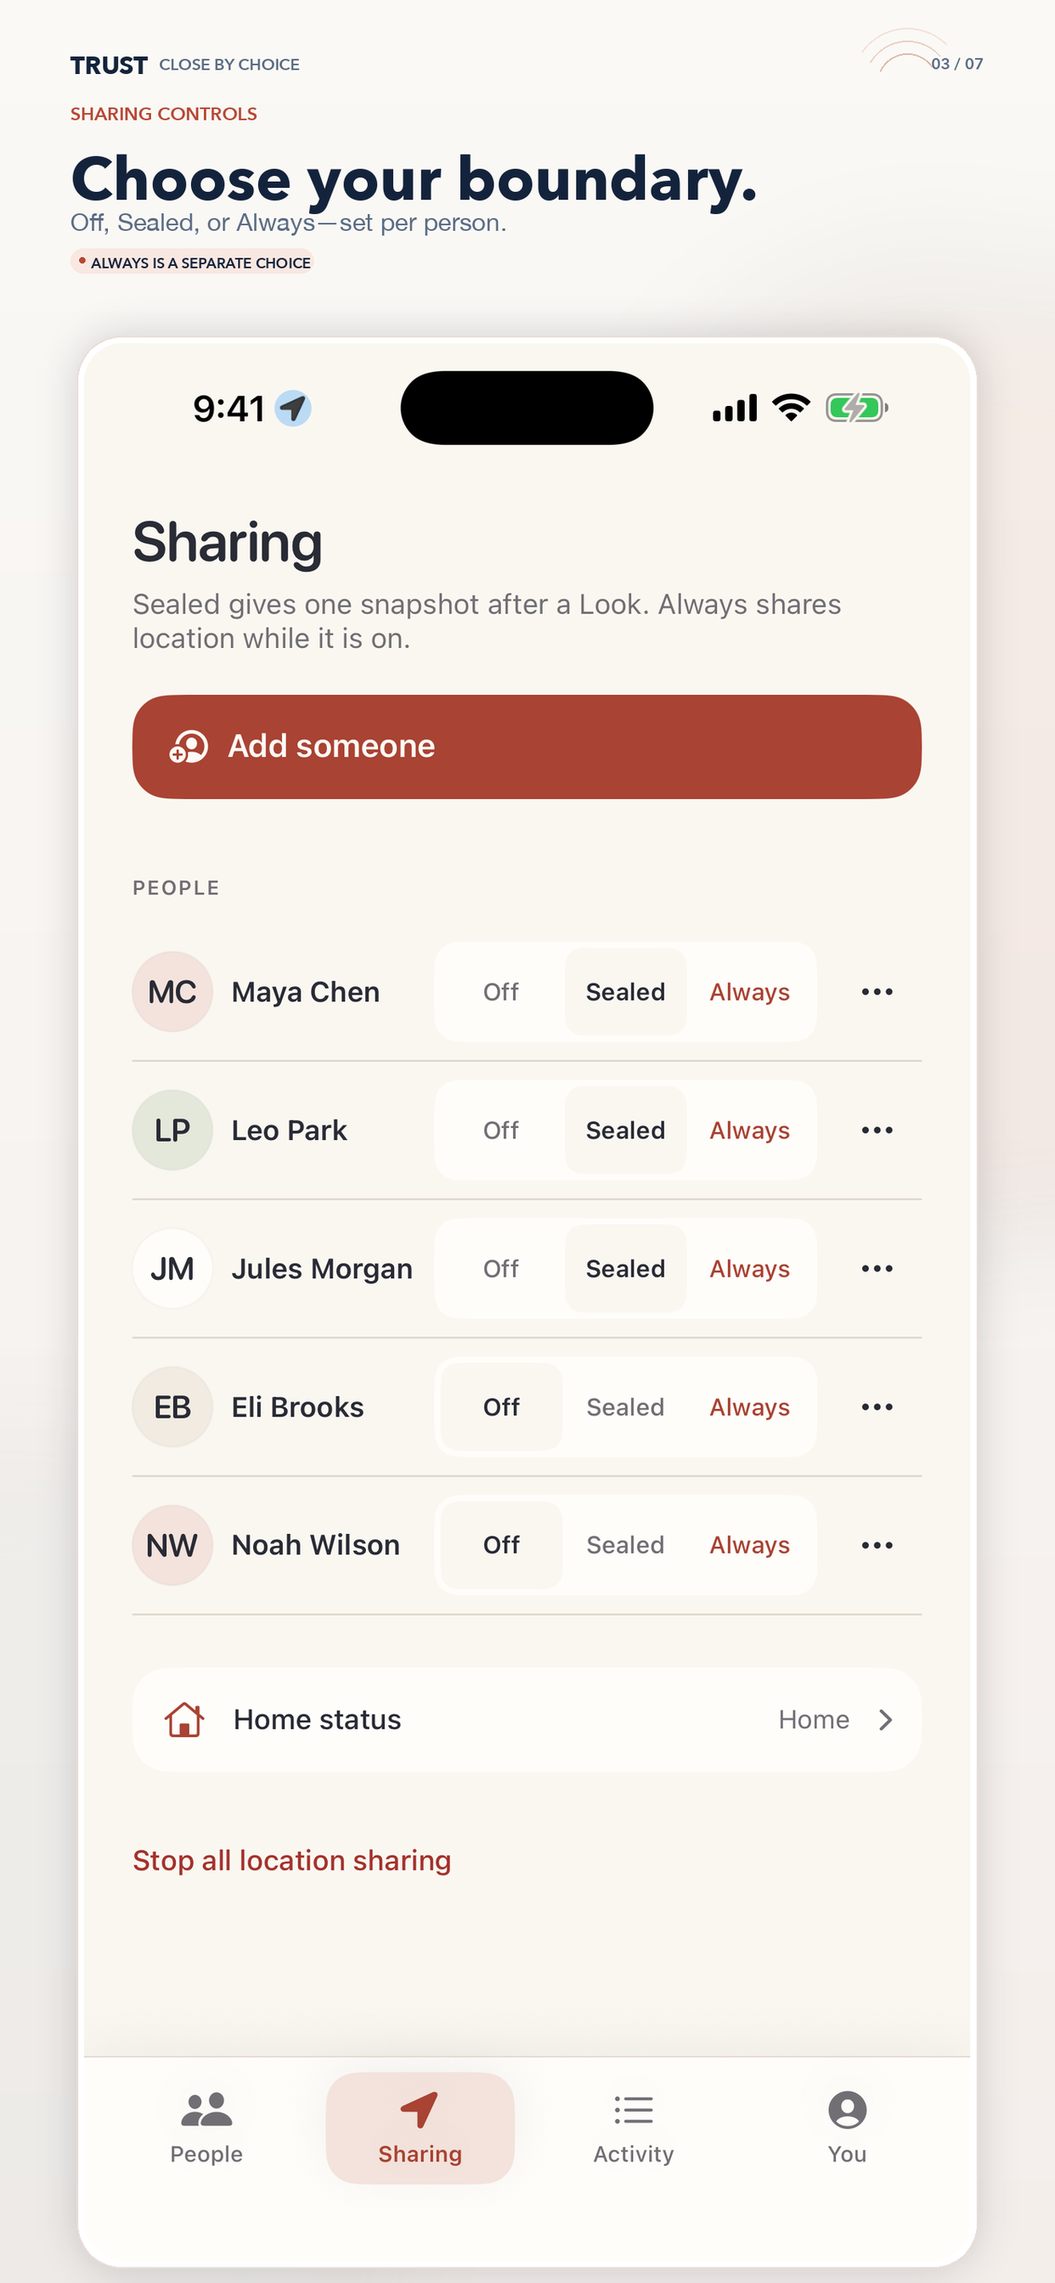
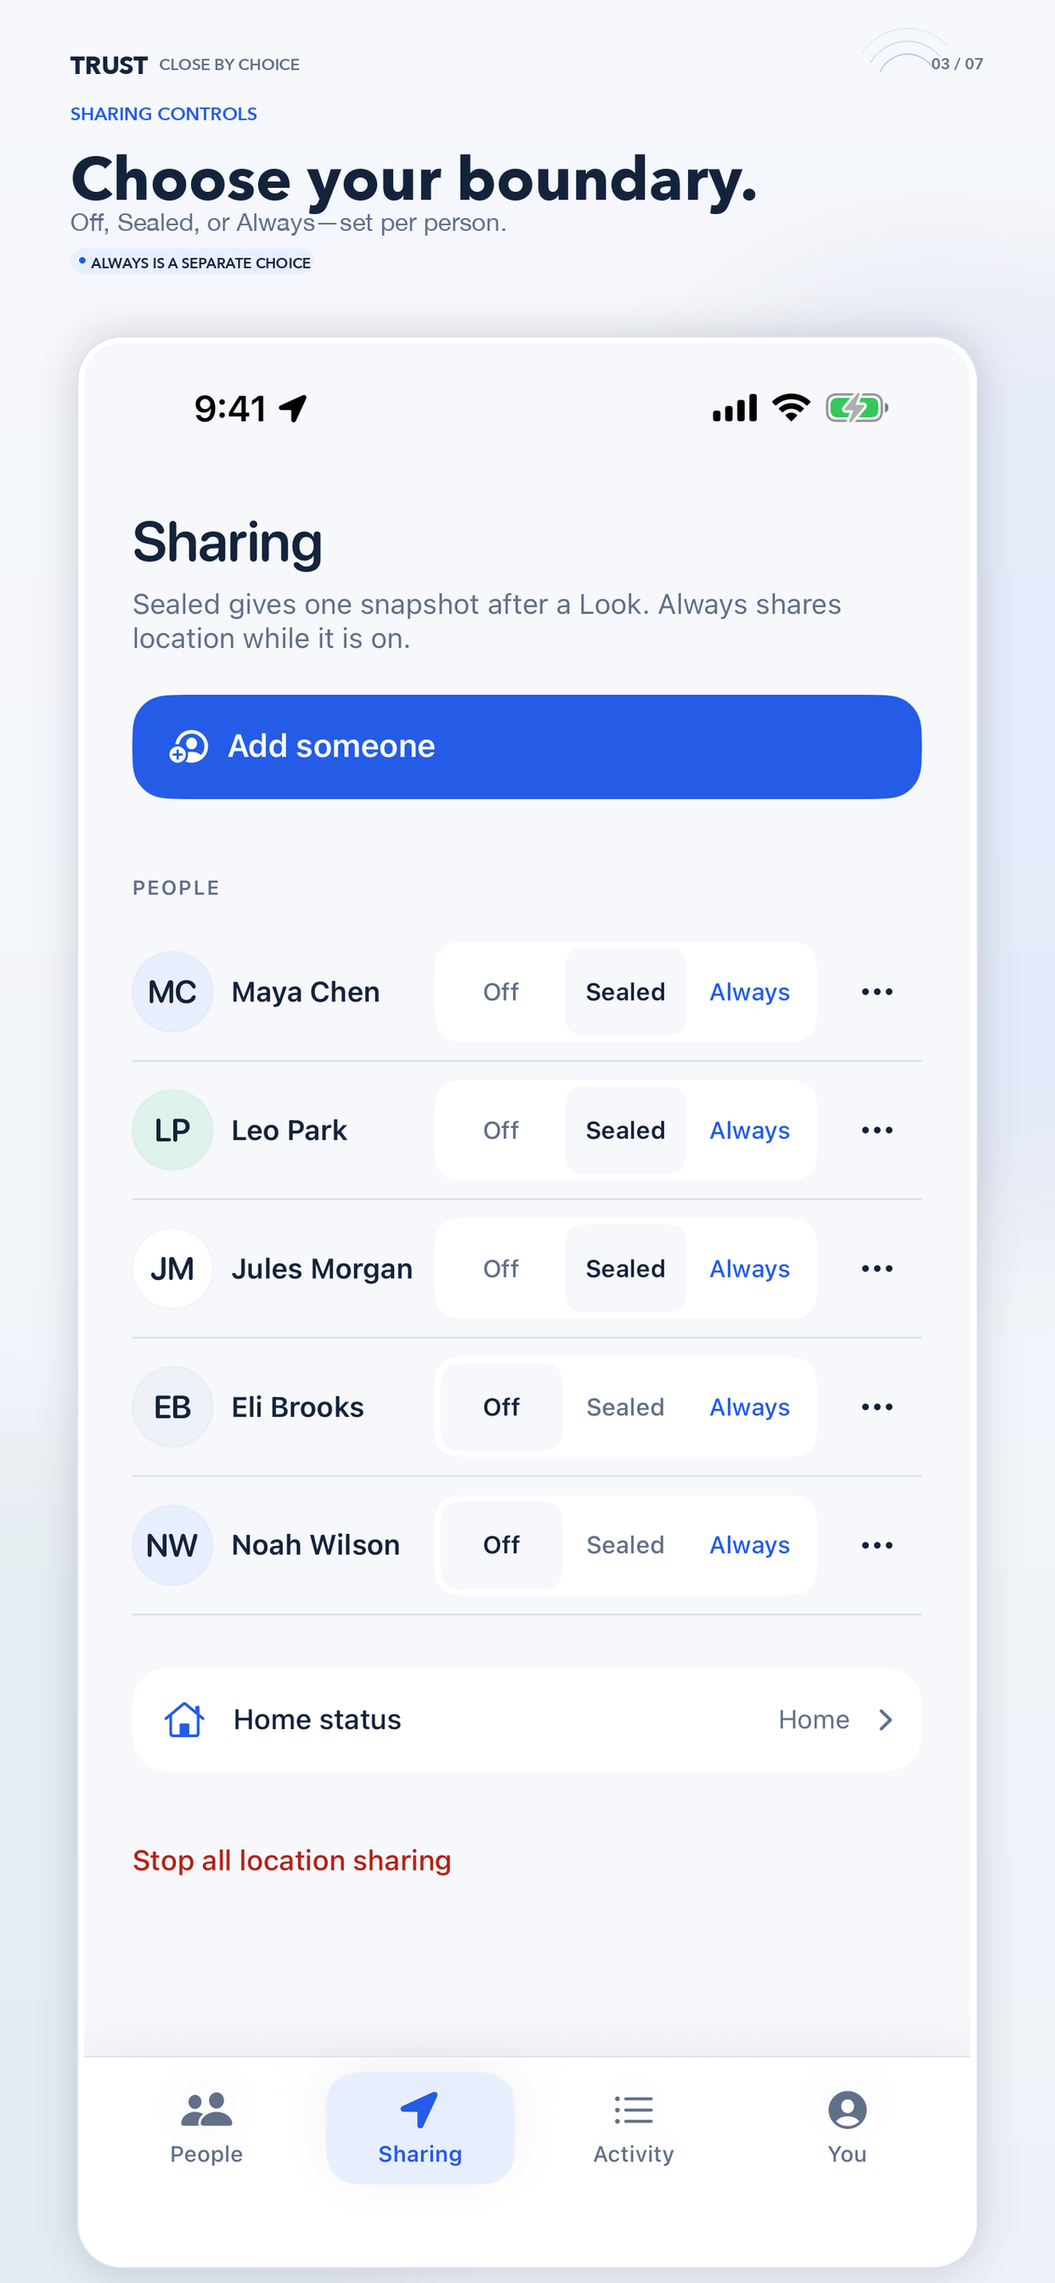
Restore blue palette and prepare TestFlight build 31

diff --git a/apps/trust-ios/Sources/TrustApp/TrustTheme.swift b/apps/trust-ios/Sources/TrustApp/TrustTheme.swift
@@ -25,24 +25,24 @@ struct TrustPalette: Equatable {
     var sheet: Color
 
     static let paper = TrustPalette(
-        paper: adaptive(0xFAF7F1, 0x101A2B),
-        canvas: adaptive(0xF1EBE2, 0x0B1423),
-        ink: adaptive(0x292B35, 0xF1F5FC),
-        muted: adaptive(0x716F74, 0xA9B7CE),
-        line: adaptive(0xE2D9CE, 0x2A3850),
-        surface: adaptive(0xFFFDFA, 0x19263A),
-        accent: adaptive(0xA94333, 0x6F95FF),
-        accentSoft: adaptive(0xF3E3DC, 0x22375F),
-        accentOn: adaptive(0xFFFAF6, 0x101A2B),
-        sage: adaptive(0xE4E8DB, 0x193D3A),
-        positive: adaptive(0x397768, 0x51C8B3),
-        danger: adaptive(0xA4332C, 0xFF8F85),
-        chrome: adaptive(0xFFFDFA, 0x19263A),
-        chromeInk: adaptive(0x292B35, 0xF1F5FC),
-        chromeMuted: adaptive(0x716F74, 0xA9B7CE),
-        pinLive: adaptive(0x397768, 0x51C8B3),
-        pinLook: adaptive(0xA94333, 0x6F95FF),
-        sheet: adaptive(0xFAF7F1, 0x101A2B)
+        paper: adaptive(0xF6F8FC, 0x101A2B),
+        canvas: adaptive(0xEEF2F8, 0x0B1423),
+        ink: adaptive(0x14233B, 0xF1F5FC),
+        muted: adaptive(0x617089, 0xA9B7CE),
+        line: adaptive(0xDCE3EF, 0x2A3850),
+        surface: adaptive(0xFFFFFF, 0x19263A),
+        accent: adaptive(0x245CE7, 0x6F95FF),
+        accentSoft: adaptive(0xE8EFFF, 0x22375F),
+        accentOn: adaptive(0xFFFFFF, 0x101A2B),
+        sage: adaptive(0xDDF3EC, 0x193D3A),
+        positive: adaptive(0x168879, 0x51C8B3),
+        danger: adaptive(0xB42318, 0xFF8F85),
+        chrome: adaptive(0xFFFFFF, 0x19263A),
+        chromeInk: adaptive(0x14233B, 0xF1F5FC),
+        chromeMuted: adaptive(0x52627C, 0xA9B7CE),
+        pinLive: adaptive(0x168879, 0x51C8B3),
+        pinLook: adaptive(0x245CE7, 0x6F95FF),
+        sheet: adaptive(0xF6F8FC, 0x101A2B)
     )
 }
 

diff --git a/apps/trust-ios/AppStore/build-store-screenshots.py b/apps/trust-ios/AppStore/build-store-screenshots.py
@@ -46,8 +46,8 @@ def wrap_text(draw: ImageDraw.ImageDraw, text: str, selected_font: ImageFont.Fre
 
 def vertical_background(size: tuple[int, int], factor: float) -> Image.Image:
     width, height = size
-    top = (250, 249, 246)
-    bottom = (244, 238, 235)
+    top = (246, 248, 252)
+    bottom = (238, 242, 248)
     background = Image.new("RGB", size)
     draw = ImageDraw.Draw(background)
     for y in range(height):
@@ -57,8 +57,8 @@ def vertical_background(size: tuple[int, int], factor: float) -> Image.Image:
 
     haze = Image.new("RGBA", size, (0, 0, 0, 0))
     haze_draw = ImageDraw.Draw(haze)
-    haze_draw.ellipse((width * 0.55, height * 0.12, width * 1.22, height * 0.54), fill=(201, 116, 88, 22))
-    haze_draw.ellipse((-width * 0.28, height * 0.64, width * 0.38, height * 1.13), fill=(126, 178, 176, 16))
+    haze_draw.ellipse((width * 0.55, height * 0.12, width * 1.22, height * 0.54), fill=(36, 92, 231, 18))
+    haze_draw.ellipse((-width * 0.28, height * 0.64, width * 0.38, height * 1.13), fill=(22, 136, 121, 14))
     haze = haze.filter(ImageFilter.GaussianBlur(int(75 * factor)))
     background = Image.alpha_composite(background.convert("RGBA"), haze).convert("RGB")
     draw = ImageDraw.Draw(background)
@@ -66,9 +66,9 @@ def vertical_background(size: tuple[int, int], factor: float) -> Image.Image:
     # Quiet orbital strokes echo the Trust mark without competing with the app UI.
     center = (int(width * 0.86), int(105 * factor))
     for radius, start, end, color in [
-        (38, 205, 325, (226, 185, 171)),
-        (54, 210, 320, (237, 207, 196)),
-        (70, 215, 315, (245, 224, 216)),
+        (38, 205, 325, (188, 205, 243)),
+        (54, 210, 320, (211, 222, 248)),
+        (70, 215, 315, (228, 235, 250)),
     ]:
         box = (
             center[0] - int(radius * factor), center[1] - int(radius * factor),
@@ -84,6 +84,14 @@ def make_panel(source: Path, output: Path, index: int, story: tuple[str, str, st
     if screen.size != expected:
         raise ValueError(f"{source} is {screen.width}×{screen.height}, expected {expected[0]}×{expected[1]}")
 
+    if expected == (2064, 2752):
+        # iPad Simulator captures an OS window-resize affordance over this blank
+        # corner. It is outside the app UI and must not appear in store artwork.
+        ImageDraw.Draw(screen).rectangle(
+            (screen.width - 80, screen.height - 80, screen.width - 1, screen.height - 1),
+            fill=(255, 255, 255),
+        )
+
     width, height = expected
     factor = min(width / 1320, 1.25)
     pad = int(88 * factor)
@@ -97,10 +105,11 @@ def make_panel(source: Path, output: Path, index: int, story: tuple[str, str, st
     note_font = font(FONT_BOLD, int(18 * factor), index=2)
     page_font = font(FONT_BOLD, int(20 * factor), index=2)
 
+    # Keep these light-mode annotation tokens aligned with TrustPalette.paper.
     ink = (20, 35, 60)
-    muted = (91, 108, 132)
-    accent = (183, 72, 53)
-    line = (232, 222, 215)
+    muted = (97, 112, 137)
+    accent = (36, 92, 231)
+    line = (220, 227, 239)
 
     top = int(62 * factor)
     draw.text((pad, top), "TRUST", font=bold, fill=ink)
@@ -134,7 +143,7 @@ def make_panel(source: Path, output: Path, index: int, story: tuple[str, str, st
     badge_w = badge_bbox[2] - badge_bbox[0] + int(28 * factor)
     badge_h = badge_bbox[3] - badge_bbox[1] + int(18 * factor)
     badge = (pad, y, min(width - pad, pad + badge_w), y + badge_h)
-    draw.rounded_rectangle(badge, radius=int(18 * factor), fill=(249, 232, 225))
+    draw.rounded_rectangle(badge, radius=int(18 * factor), fill=(232, 239, 255))
     draw.ellipse((badge[0] + int(11 * factor), badge[1] + int(11 * factor), badge[0] + int(18 * factor), badge[1] + int(18 * factor)), fill=accent)
     draw.text((badge[0] + int(26 * factor), badge[1] + int(7 * factor)), note, font=note_font, fill=ink)
 

diff --git a/docs/STATUS.md b/docs/STATUS.md
@@ -1,35 +1,37 @@
 # Trust project status
 
-Updated 2026-09-26. This is a dated evidence snapshot; recheck live service and App Store Connect state before relying on it.
+Updated 2026-09-26. This is a dated evidence snapshot; verify live service and App Store Connect state before relying on it.
 
-## Current work
+## Current source
 
-The working branch is `codex/phone-discovery`, based on `main` commit `e5039b5`. It adds automatic exact handle/full-phone lookup, an explicit default-off phone-discovery choice, consent-gated avatar previews, and a native share-sheet invite link for unmatched phone searches. Sending an invite link does not claim a text was sent, and accepting a connection leaves both sharing directions Off. Old HTML design mocks were removed; `DESIGN.md`, `SHARING-REDESIGN.md`, `SCREENS.md`, and the READMEs describe the current experience.
+The checked-out branch is `main` at `c3401cf` (`Consent-aware discovery and App Store screenshots`, already on `origin/main`). There was no outstanding feature branch to merge. This working change restores the approved blue light palette, aligns the App Store screenshot artwork and capture script to it, removes the iPad Simulator resize affordance from the prepared artwork, and advances the iOS build number to 31.
 
-Astra reviewed the final Add Someone sheet and found no remaining high-impact visual issue. Sol's independent review found no actionable privacy or implementation issue in the native share-sheet callback or Duo dismissal fallback.
+The current design direction and actual palette tokens are in [DESIGN.md](DESIGN.md). The app icon redesign remains paused.
 
-## Verified checks
+## Verification evidence
 
-- API suite: **132/132** passed, no skips.
-- Swift package: **33/33** passed. Full stable iPhone 17 Pro Xcode suite: **41/41** passed, no skips (**33 core + 8 UI**).
-- Real-API onboarding through phone lookup, invitation sharing, request acceptance, Off defaults, and stopping sharing: **1/1** passed on stable iOS 26.5 and **1/1** on iOS 27.1 beta Duo.
-- Website tests: **3/3** passed. Localization validation: **470 keys across five translated locales**.
-- The local Development API returns Healthy. Cloudflare Wrangler authentication and a website deploy dry run were verified.
-- About **1.4 GB** of ignored old iOS build and archive artifacts were removed from `apps/trust-ios/build`. Only the actively used iPhone 17 Pro and Duo simulator devices remain.
+- Swift package tests: **33/33 passed**.
+- Stable iPhone 17 Pro Xcode UI suite: **41/41 passed** (33 core + 8 UI).
+- API suite: **132/132 passed**.
+- Website tests: **3/3 passed**; localization validation found **470 keys across five translated locales**.
+- Real-API onboarding, phone lookup, invite sharing, request acceptance, default-Off sharing, and stopping sharing passed once on stable iOS 26.5 and once on iOS 27.1 beta Duo.
+- Local development API health, Cloudflare Wrangler authentication, and a website deploy dry run were verified.
+- App Store screenshot assets were regenerated for iPhone 6.9-inch, iPhone 6.5-inch, and iPad 13-inch sets. The capture script explicitly uses Light appearance. The assets are local; they have not been uploaded to the App Store listing.
+- Build 31 was archived with the `Trust-Internal` scheme, checked to contain `TRUST_SKIP_PHONE_VERIFICATION=true`, and uploaded successfully to App Store Connect using the internal-only export configuration. At the last check, App Store Connect reported that the package was processing. Assignment to an internal group and tester visibility are not yet verified.
 
-On Duo’s iOS 27.1 beta, the system share sheet ignores the close-button tap from XCTest; swipe-down closes it and the rest of the real-API flow passes. The same control dismisses normally on stable iOS. Simulator checks do not establish physical SMS, Sign in with Apple, APNs delivery, background location, or TestFlight behavior.
+On Duo's iOS 27.1 beta, XCTest could not close the system share sheet with its close-button tap; a swipe-down closed it and the rest of the real-API flow passed. Simulator checks do not establish physical SMS, Sign in with Apple, APNs delivery, background location, or TestFlight behavior.
 
-## Release and service state
+## Release state
 
-- The branch has not yet been committed, merged, or deployed. The production Render API and Cloudflare site still reflect the earlier merged release.
-- App Store Connect is signed in through Safari. The iOS 1.0 listing is still **Prepare for Submission**, currently selects build **27**, and still displays the old red-ring listing icon. Builds **27** and **28** are processed; build 28 is in the `iPhone Juan` internal group. The current source build is **30** and has not been archived or uploaded. The 6.5-inch listing still has seven older screenshots. The source asset uses the current three-arc icon; refresh the listing from the reviewed internal build and replace the stale screenshots before submitting.
-- The revised website SMS disclosure and privacy wording are present in this branch, but the live Twilio campaign record has not been independently verified. Do not claim carrier SMS consent language is registered until that check is complete.
-- No end-to-end push notification delivery has been verified. APNs delivery is best effort; no successful server publish proves a notification reached a device.
+- The current branch contains the latest merged app work plus the pending palette, screenshot, and build-number changes. Commit and push those changes to `main`.
+- Build 31 is uploaded for internal TestFlight and was processing at last observation. Complete processing verification and assign it to the intended existing internal group; confirm the tester can see build 31 before calling TestFlight delivery complete.
+- App Store listing artwork is not updated. The refreshed screenshot sets are staged locally, and the current listing icon/screenshots still need an App Store Connect review and update.
+- The production Render API and Cloudflare site were previously observed on an earlier release; deploy and health-check current server/site changes separately.
+- Reconcile the Send code disclosure with Twilio campaign records and public SMS evidence. Do not claim carrier SMS consent language is registered until verified.
+- Push delivery has not been end-to-end verified. APNs delivery is best effort; a successful server publish does not prove delivery to a device.
 
-## Remaining release work
+## Remaining product and release work
 
-Merge the reviewed branch; deploy and health-check the API and website; archive and upload source build 30 through the internal-only scheme; assign it to the intended internal testers; refresh the App Store listing icon and screenshots; and retire the superseded TestFlight builds after the replacement is available. Then run the physical two-account TestFlight checks for SMS, location/background behavior, notifications, account deletion, and StoreKit purchase/restore.
+Complete physical two-account TestFlight checks for SMS, background location, notification receipt, StoreKit purchase/restore, and account deletion. Reproduce the first-login Offline/Retry report against the release API, verify custom API hostname TLS before changing clients, and resolve server-side Home-place removal before public release (`clearHomePlace()` currently clears local device state without clearing the server's saved Home presence). Complete App Review metadata and agreement checks before public submission.
 
-Before public release, resolve or explicitly accept the known Home-place issue: `clearHomePlace()` currently clears local device state without clearing the server's Home presence. Also reproduce the first-login Offline/Retry report against the release API, verify the custom API hostname's TLS before switching clients, and confirm the production Twilio campaign and public `/sms` evidence agree.
-
-The current design is in [DESIGN.md](DESIGN.md), real-feature evidence and its limits are in [FEATURE-E2E-PLAN.md](FEATURE-E2E-PLAN.md), and the deployment procedure is in [DEPLOYMENT.md](DEPLOYMENT.md). Broader scale requirements remain in [PRODUCTION-READINESS.md](PRODUCTION-READINESS.md).
+The current visual direction and screen intent live in [DESIGN.md](DESIGN.md); feature evidence and limits are in [FEATURE-E2E-PLAN.md](FEATURE-E2E-PLAN.md); deployment procedure is in [DEPLOYMENT.md](DEPLOYMENT.md); broader scale requirements remain in [PRODUCTION-READINESS.md](PRODUCTION-READINESS.md).

diff --git a/apps/trust-ios/AppStore/Screenshots/2026-09/README.md b/apps/trust-ios/AppStore/Screenshots/2026-09/README.md
@@ -13,6 +13,6 @@ The app UI is captured from the current source with the DEBUG-only, offline scre
 
 ## Rebuild
 
-From the repository root, run `apps/trust-ios/AppStore/capture-app-store-screenshots.sh`, then `python3 apps/trust-ios/AppStore/build-store-screenshots.py`. The capture script creates and removes its own simulators and never uploads assets. Pillow and the macOS Avenir Next / Helvetica Neue fonts are used for the annotation layer. The builder exports both supported iPhone listing sizes from the same captured screens and design.
+From the repository root, run `apps/trust-ios/AppStore/capture-app-store-screenshots.sh`, then `python3 apps/trust-ios/AppStore/build-store-screenshots.py`. The capture script sets Light appearance, creates and removes its own simulators, and never uploads assets. Pillow and the macOS Avenir Next / Helvetica Neue fonts are used for the annotation layer. The builder exports both supported iPhone listing sizes from the same captured screens and design.
 
-The final panels keep Trust’s paper, ink, and rust colors, use one short benefit headline and one explanatory annotation per image, and preserve a legible view of the current app screen. They borrow the feature-led sequence pattern from category leaders without reusing their artwork or visual identity. Confirm both device-size groups and the assigned image order in App Store Connect after upload; the draft listing remains separate from this local asset package.
+The final panels use Trust’s porcelain, navy, blue, and teal palette, with one short benefit headline and one explanatory annotation per image, while preserving a legible view of the current app screen. They borrow the feature-led sequence pattern from category leaders without reusing their artwork or visual identity. Confirm both device-size groups and the assigned image order in App Store Connect after upload; the draft listing remains separate from this local asset package.

diff --git a/apps/trust-ios/PENDING.md b/apps/trust-ios/PENDING.md
@@ -2,8 +2,8 @@
 
 This is an index, not a second release-status snapshot. Current local evidence and dated external observations live in [docs/STATUS.md](../../docs/STATUS.md). App Store Connect claims must be rechecked in App Store Connect before acting.
 
-- Source build 30 is the current internal candidate. Commit and merge it, archive with the `Trust-Internal` scheme, validate the `TRUST_SKIP_PHONE_VERIFICATION=true` build setting, upload, process, and assign to the intended internal groups. Verify the tester sees that exact build.
-- Refresh the App Store listing icon and replace its seven older screenshots after the new build is processed; keep the draft version unsubmitted.
+- Build 31 is the current internal candidate. It was archived with `Trust-Internal`, verified to include `TRUST_SKIP_PHONE_VERIFICATION=true`, and uploaded successfully; App Store Connect reported it was processing. Recheck processing, assign it to the intended existing internal group, and verify the tester sees that exact build.
+- The September screenshot sets have been regenerated locally for iPhone 6.9-inch, iPhone 6.5-inch, and iPad 13-inch. Review and upload the approved assets in App Store Connect; its listing artwork remains unchanged. Keep the draft version unsubmitted.
 - Reconcile the current Send code consent disclosure with Twilio campaign records and public SMS evidence.
 - Complete physical two-account TestFlight checks, including SMS, location permissions/background behavior, APNs receipt, StoreKit purchase/restore, and account deletion. No physical APNs receipt has been verified yet.
 - Complete remaining App Review metadata checks: privacy answers, age policy, reviewer access, agreements, availability, platform scope, and subscription review status.

diff --git a/docs/DESIGN.md b/docs/DESIGN.md
@@ -2,7 +2,7 @@
 
 ## Direction
 
-Trust uses warm paper, charcoal ink, muted clay-red actions, and quiet sage status colors. The illustrated sleepy-animal avatars supply the hand-drawn warmth; keep functional screens calm, spacious, and unmistakably native iOS. Carry the warm colors through light mode while keeping the established deep-navy dark mode. Keep the current app icon in place; app-icon redesign work is paused.
+Trust uses a cool porcelain canvas, white elevated surfaces, deep navy text, clear blue actions, and teal positive states. Light tokens are paper `#F6F8FC`, canvas `#EEF2F8`, surface `#FFFFFF`, ink `#14233B`, muted `#617089`, accent `#245CE7`, and positive `#168879`; `TrustTheme.swift` is their implementation source. The sleepy-animal avatars supply the hand-drawn character; keep functional screens calm, spacious, and unmistakably native iOS. Carry this palette through light mode while keeping the established deep-navy dark mode. Keep the current app icon in place; app-icon redesign work is paused.
 
 Use rounded system typography, clear hierarchy, 24 pt page gutters, a consistent 20 pt title inset below the safe area on non-map tabs, soft 18–24 pt corners, and controls at least 44 pt tall. Use illustration sparingly: the profile gallery and real profile pictures carry the animal art into the app. Avoid decorative symbols that could be mistaken for a person's real profile. Keep Stop, Pause, visibility, and other consent controls plain and clear.
 
